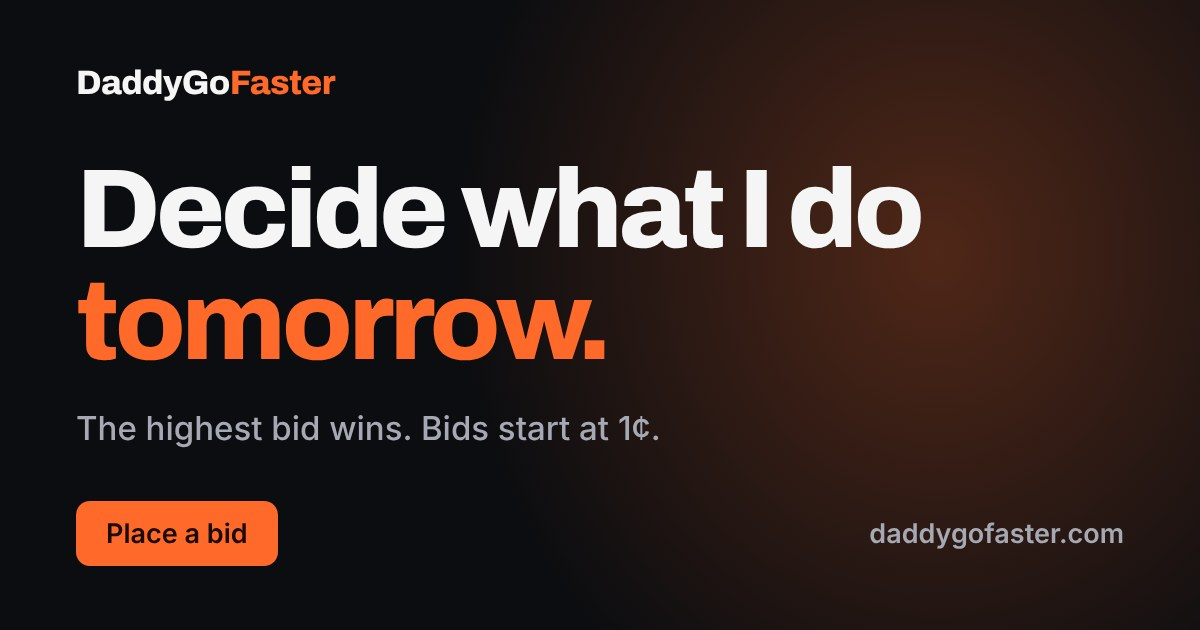
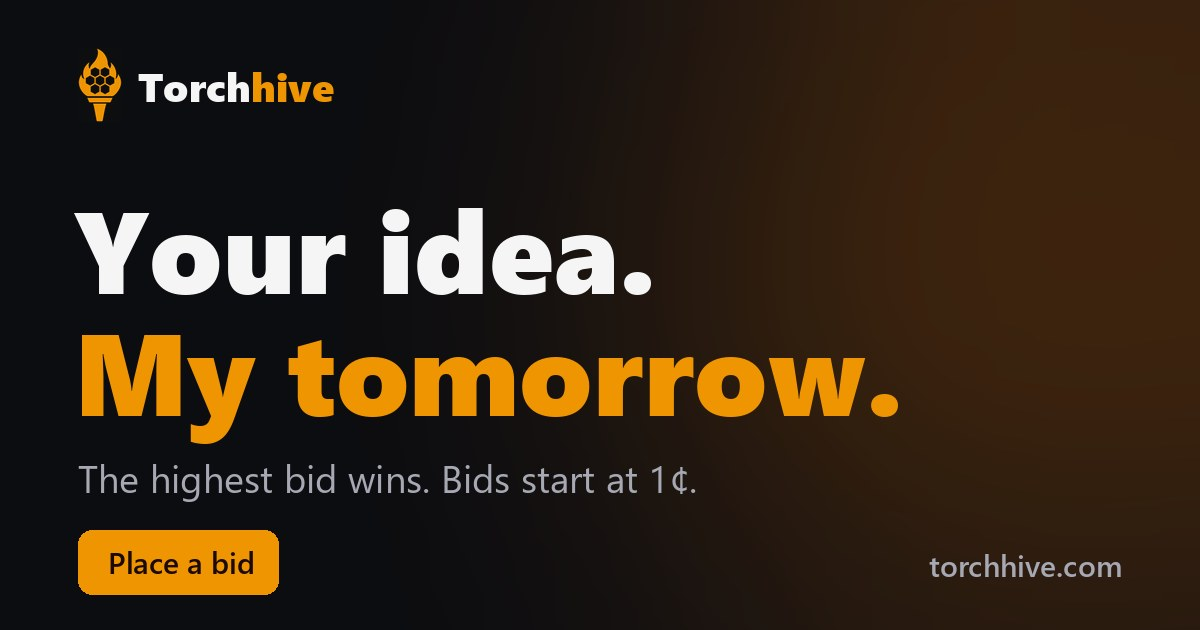
DaddyGoFaster becomes Torchhive
The site moves to torchhive.com with the new name, the torch logo in the
header, new icons and share image, and the logo's amber in place of the old
orange. The YouTube links point at @Torchhive and the contact address is
hello@torchhive.com. The service accepts the new address alongside the old
one, sends people to torchhive.com, and says Torchhive in its emails and card
descriptions. Mail still goes out from mail.daddygofaster.com until the new
mail domain is verified with Resend.

Changed region(s): [[0.0617, 0.2413, 0.7708, 0.9651], [0.7092, 0.8143, 0.9558, 0.9349], [0.0617, 0.0905, 0.2775, 0.181]]

diff --git a/index.html b/index.html
@@ -3,22 +3,23 @@
 <head>
 <meta charset="utf-8">
 <meta name="viewport" content="width=device-width,initial-scale=1">
-<title>DaddyGoFaster — Bid on what I do tomorrow</title>
+<title>Torchhive — Bid on what I do tomorrow</title>
 <meta name="description" content="Each day the highest bid sets a job for me to do the next day, on camera. Bidding is free, bids start at one cent, and only the winner pays.">
-<link rel="canonical" href="https://daddygofaster.com/">
+<link rel="canonical" href="https://torchhive.com/">
 <meta name="theme-color" content="#0C0D10">
 <script>document.documentElement.className="js"</script>
 
 <meta property="og:type" content="website">
-<meta property="og:url" content="https://daddygofaster.com/">
+<meta property="og:url" content="https://torchhive.com/">
 <meta property="og:title" content="Bid on what I do tomorrow">
 <meta property="og:description" content="The highest bid sets a job for me to do tomorrow, on camera. Bids start at one cent and only the winner pays.">
-<meta property="og:image" content="https://daddygofaster.com/assets/og-bid.jpg">
+<meta property="og:image" content="https://torchhive.com/assets/og-bid.jpg">
 <meta name="twitter:card" content="summary_large_image">
-<meta name="twitter:image" content="https://daddygofaster.com/assets/og-bid.jpg">
+<meta name="twitter:image" content="https://torchhive.com/assets/og-bid.jpg">
 
 <link rel="apple-touch-icon" href="/assets/apple-touch-icon.png">
-<link rel="icon" href="/assets/favicon.svg" type="image/svg+xml">
+<link rel="icon" href="/assets/favicon.png" type="image/png" sizes="64x64">
+<link rel="icon" href="/assets/favicon-32.png" type="image/png" sizes="32x32">
 <link rel="preload" as="image" href="/assets/idea-sunrise.webp">
 
 <link rel="preconnect" href="https://fonts.googleapis.com">
@@ -37,8 +38,8 @@
   --text:#F5F5F6;
   --muted:#A6A9B3;
   --faint:#8A8D98;
-  --accent:#FF6A2B;
-  --accent-hi:#FF8A55;
+  --accent:#EF9502;
+  --accent-hi:#FFB23E;
   --accent-ink:#1B0A02;
   --good:#3DD68C;
   --bad:#F26D72;
@@ -94,8 +95,7 @@ p{margin:0}
 .top__in{display:flex;align-items:center;gap:clamp(14px,3vw,28px);height:78px}
 .logo{display:inline-flex;align-items:center;font-family:var(--display);font-weight:800;font-size:1.12rem;letter-spacing:-.04em;text-decoration:none;white-space:nowrap}
 .logo b{color:var(--accent);font-weight:800}
-.logo__mark{display:flex;align-items:center;margin-right:12px;gap:3px;width:28px;height:30px}
-.logo__mark::before,.logo__mark::after{content:"";width:10px;height:23px;background:var(--accent);transform:skew(-18deg);border-radius:2px}
+.logo__mark{display:block;margin-right:10px;height:34px;width:auto}
 .logo__mark::after{height:16px;opacity:.55}
 .nav{display:flex;gap:26px;margin-left:auto}
 .nav a{color:var(--muted);text-decoration:none;font-size:.82rem;font-weight:500;transition:color .15s}
@@ -119,7 +119,7 @@ p{margin:0}
 /* ---- hero -------------------------------------------------- */
 .hero{position:relative;overflow:hidden;border-bottom:1px solid var(--line)}
 .hero::before{content:"";position:absolute;inset:0;pointer-events:none;
-  background:radial-gradient(ellipse at 78% 35%,rgba(255,106,43,.11),transparent 55%)}
+  background:radial-gradient(ellipse at 78% 35%,rgba(239,149,2,.11),transparent 55%)}
 .hero::after{content:"";position:absolute;inset:0;pointer-events:none;opacity:.2;
   background-image:linear-gradient(var(--line) 1px,transparent 1px),linear-gradient(90deg,var(--line) 1px,transparent 1px);
   background-size:64px 64px;mask-image:linear-gradient(90deg,transparent 30%,#000)}
@@ -164,7 +164,7 @@ p{margin:0}
 .work__skills{display:flex;flex-wrap:wrap;gap:8px}
 .work__skill{min-height:40px;padding:8px 14px;border:1px solid var(--line-2);border-radius:999px;background:var(--card);color:var(--text);font:600 .82rem var(--body);cursor:pointer}
 .work__skill:hover{border-color:var(--accent)}
-.work__skill[aria-pressed="true"]{border-color:var(--accent);background:rgba(255,106,43,.14)}
+.work__skill[aria-pressed="true"]{border-color:var(--accent);background:rgba(239,149,2,.14)}
 .work__options{display:grid;gap:10px}
 .work__option{display:grid;grid-template-columns:1fr auto;gap:4px 14px;align-items:center;width:100%;text-align:left;padding:14px 16px;border:1px solid var(--line-2);border-radius:12px;background:var(--card);color:var(--text);font:inherit;cursor:pointer;transition:border-color .15s,transform .15s}
 .work__option:hover{border-color:var(--accent);transform:translateY(-1px)}
@@ -232,7 +232,7 @@ p{margin:0}
   background:linear-gradient(145deg,rgba(255,255,255,.025),transparent 50%),var(--card)}
 .bid::before{content:"";position:absolute;left:28px;right:28px;top:-1px;height:2px;background:linear-gradient(90deg,transparent,var(--accent),transparent)}
 .bid__heading{display:flex;align-items:center;gap:13px;padding:24px 26px 20px}
-.bid__icon{display:grid;place-items:center;width:40px;height:40px;border:1px solid rgba(255,106,43,.25);border-radius:11px;background:rgba(255,106,43,.08);color:var(--accent);flex:none}
+.bid__icon{display:grid;place-items:center;width:40px;height:40px;border:1px solid rgba(239,149,2,.25);border-radius:11px;background:rgba(239,149,2,.08);color:var(--accent);flex:none}
 .bid__icon svg{width:21px;height:21px}
 .bid__heading h2{font-size:1.15rem;letter-spacing:-.03em}
 .bid__heading p{font-size:.74rem;color:var(--muted);margin-top:4px}
@@ -250,12 +250,12 @@ p{margin:0}
   color:var(--text);font:400 1rem/1.5 var(--body);padding:12px 14px;transition:border-color .15s,box-shadow .15s}
 .field textarea{min-height:98px;resize:vertical;display:block}
 .field input::placeholder,.field textarea::placeholder{color:#6F727D}
-.field input:focus,.field textarea:focus{outline:none;border-color:var(--accent);box-shadow:0 0 0 3px rgba(255,106,43,.25)}
+.field input:focus,.field textarea:focus{outline:none;border-color:var(--accent);box-shadow:0 0 0 3px rgba(239,149,2,.25)}
 .field__hint{margin-top:7px;font-size:.84rem;color:var(--faint)}
 .field__hint--tight{margin-top:-8px}
 .field__label{display:block;margin-bottom:7px;font-size:.9rem;font-weight:600}
 .cardbox{background:var(--field);border:1px solid var(--line-2);border-radius:10px;padding:15px 14px;min-height:50px;transition:border-color .15s,box-shadow .15s}
-.cardbox.StripeElement--focus{border-color:var(--accent);box-shadow:0 0 0 3px rgba(255,106,43,.25)}
+.cardbox.StripeElement--focus{border-color:var(--accent);box-shadow:0 0 0 3px rgba(239,149,2,.25)}
 .cardbox.StripeElement--invalid{border-color:#F26D72}
 .money{position:relative}
 .money span{position:absolute;left:14px;top:50%;transform:translateY(-50%);color:var(--muted);font-weight:600;pointer-events:none}
@@ -319,7 +319,7 @@ p{margin:0}
 .chat__label{font-size:.8rem;font-weight:600;color:var(--faint)}
 .chat__you,.chat__reply{padding:13px 16px;border-radius:14px;font-size:.96rem}
 .chat__you{justify-self:end;max-width:92%;background:var(--line);border-bottom-right-radius:4px}
-.chat__reply{justify-self:start;max-width:96%;background:rgba(255,106,43,.1);border:1px solid rgba(255,106,43,.3);border-bottom-left-radius:4px}
+.chat__reply{justify-self:start;max-width:96%;background:rgba(239,149,2,.1);border:1px solid rgba(239,149,2,.3);border-bottom-left-radius:4px}
 .chat__reply b{color:var(--gold);font-weight:600}
 @media(max-width:820px){.answer{grid-template-columns:1fr}}
 
@@ -367,7 +367,7 @@ p{margin:0}
 .vis{border:0;padding:0;margin:0;display:grid;gap:8px}
 .vis legend{padding:0;margin-bottom:7px;font-size:.9rem;font-weight:600}
 .vis__opt{display:flex;gap:11px;align-items:flex-start;padding:11px 13px;border:1px solid var(--line-2);border-radius:10px;background:var(--field);cursor:pointer}
-.vis__opt:has(input:checked){border-color:var(--accent);background:rgba(255,106,43,.08)}
+.vis__opt:has(input:checked){border-color:var(--accent);background:rgba(239,149,2,.08)}
 .vis__opt input{width:18px;height:18px;margin:2px 0 0;accent-color:var(--accent);flex:0 0 auto}
 .vis__opt b{display:block;font-size:.92rem;font-weight:600}
 .vis__opt span span{display:block;font-size:.82rem;color:var(--muted)}
@@ -379,7 +379,7 @@ p{margin:0}
 @media(max-width:640px){.board .c-job,.board .c-when{display:none}}
 @media(max-width:480px){.board th,.board td{padding:14px 10px}.board .c-rank{width:2.5em}.badge{margin-left:6px;font-size:.68rem}}
 .board__empty{padding:clamp(36px,5vw,60px);text-align:center;color:var(--muted);font-size:.9rem;
-  background:radial-gradient(ellipse at 50% 0,rgba(255,106,43,.04),transparent 70%)}
+  background:radial-gradient(ellipse at 50% 0,rgba(239,149,2,.04),transparent 70%)}
 .board__symbol{display:grid;place-items:center;margin:0 auto 22px;width:58px;height:64px;border:1px solid var(--line-2);border-radius:12px;background:var(--bg-2);transform:rotate(-7deg);box-shadow:6px 5px 0 var(--card),7px 6px 0 var(--line)}
 .board__symbol svg{width:25px;height:25px;color:var(--accent);transform:rotate(7deg)}
 .board__empty b{display:block;color:var(--text);font-family:var(--display);font-size:1.2rem;margin-bottom:6px}
@@ -390,7 +390,7 @@ p{margin:0}
 /* ---- what a bid covers ------------------------------------- */
 .tiles{list-style:none;margin:0;padding:0;display:grid;grid-template-columns:repeat(5,minmax(0,1fr));gap:clamp(10px,1.4vw,16px)}
 .tile{padding:24px 18px;text-align:left;background:var(--bg-2);border-radius:10px}
-.tile:first-child{border-color:rgba(255,106,43,.5);background:rgba(255,106,43,.06)}
+.tile:first-child{border-color:rgba(239,149,2,.5);background:rgba(239,149,2,.06)}
 .tile::after{content:"";display:block;height:3px;width:30px;margin-top:20px;background:var(--accent);border-radius:2px;opacity:.5}
 .tile b{display:block;font-family:var(--display);font-weight:800;font-size:clamp(1.05rem,1.35vw,1.2rem);color:var(--accent);white-space:nowrap}
 .tile span{display:block;margin-top:4px;color:var(--muted);font-size:.95rem}
@@ -437,7 +437,7 @@ a.spot:hover{border-color:var(--accent);transform:translateY(-3px)}
 /* ---- closing call ------------------------------------------ */
 .close{position:relative;overflow:hidden;text-align:center;padding:clamp(64px,9vw,120px) 0}
 .close::before{content:"";position:absolute;left:50%;top:50%;width:min(900px,120%);height:140%;transform:translate(-50%,-50%);
-  background:radial-gradient(closest-side,rgba(255,106,43,.16),transparent);pointer-events:none}
+  background:radial-gradient(closest-side,rgba(239,149,2,.16),transparent);pointer-events:none}
 .close .wrap{position:relative}
 .close h2{font-size:clamp(2.6rem,5.5vw,4.5rem);font-weight:900;letter-spacing:-.055em;max-width:15ch;margin:0 auto;line-height:1.04}
 .close h2 em{font-style:normal;color:var(--accent)}
@@ -480,12 +480,12 @@ a.spot:hover{border-color:var(--accent);transform:translateY(-3px)}
 
 <header class="top">
   <div class="wrap top__in">
-    <a class="logo" href="#top" aria-label="DaddyGoFaster home"><span class="logo__mark" aria-hidden="true"></span>DaddyGo<b>Faster</b></a>
+    <a class="logo" href="#top" aria-label="Torchhive home"><img class="logo__mark" src="/assets/torchhive-mark.png" width="114" height="192" alt="">Torch<b>hive</b></a>
     <nav class="nav" aria-label="Sections">
       <a href="#how">How it works</a>
       <a href="#board">Today's bids</a>
       <a href="#rules">Rules</a>
-      <a href="https://www.youtube.com/@DaddyGoFaster" target="_blank" rel="noopener">YouTube</a>
+      <a href="https://www.youtube.com/@Torchhive" target="_blank" rel="noopener">YouTube</a>
     </nav>
     <a class="btn btn--primary btn--sm" href="#bid">Place a bid <span aria-hidden="true">↗</span></a>
     <details class="mobile-nav" id="mobileNav">
@@ -496,7 +496,7 @@ a.spot:hover{border-color:var(--accent);transform:translateY(-3px)}
         <a href="#board">Today's bids</a>
         <a href="#rules">Rules</a>
         <a href="#sponsors">Sponsors</a>
-        <a href="https://www.youtube.com/@DaddyGoFaster" target="_blank" rel="noopener">YouTube ↗</a>
+        <a href="https://www.youtube.com/@Torchhive" target="_blank" rel="noopener">YouTube ↗</a>
       </nav>
     </details>
   </div>
@@ -565,7 +565,7 @@ a.spot:hover{border-color:var(--accent);transform:translateY(-3px)}
         </ul>
         <div class="hero__links">
           <a class="btn btn--ghost" href="#how">How it works <span aria-hidden="true">↓</span></a>
-          <a class="watch" href="https://www.youtube.com/@DaddyGoFaster" target="_blank" rel="noopener"><svg viewBox="0 0 24 24" fill="none" aria-hidden="true"><rect x="2" y="5" width="20" height="14" rx="5" stroke="currentColor" stroke-width="1.5"/><path d="m10 9 6 3-6 3Z" fill="currentColor"/></svg>Watch on YouTube</a>
+          <a class="watch" href="https://www.youtube.com/@Torchhive" target="_blank" rel="noopener"><svg viewBox="0 0 24 24" fill="none" aria-hidden="true"><rect x="2" y="5" width="20" height="14" rx="5" stroke="currentColor" stroke-width="1.5"/><path d="m10 9 6 3-6 3Z" fill="currentColor"/></svg>Watch on YouTube</a>
         </div>
       </div>
 
@@ -633,7 +633,7 @@ a.spot:hover{border-color:var(--accent);transform:translateY(-3px)}
           </div>
           <p class="msg" id="bidMsg" role="status" hidden></p>
           <button class="btn btn--primary btn--block" id="bidBtn" type="submit" hidden>Continue</button>
-          <a class="btn btn--primary btn--block" id="notifyBtn" href="mailto:hello@daddygofaster.com?subject=Tell%20me%20when%20bidding%20opens">Tell me when bidding opens</a>
+          <a class="btn btn--primary btn--block" id="notifyBtn" href="mailto:hello@torchhive.com?subject=Tell%20me%20when%20bidding%20opens">Tell me when bidding opens</a>
           <p class="fine" id="bidFine">Bidding is not open yet. This opens an email asking to be told when it is.</p>
         </div>
       </form>
@@ -814,12 +814,12 @@ a.spot:hover{border-color:var(--accent);transform:translateY(-3px)}
           <p class="spot__own">Protect &amp; Assist is my company.</p>
           <span class="spot__go">Visit protectandassist.com</span>
         </a>
-        <a class="card spot spot--open" href="mailto:hello@daddygofaster.com?subject=Sponsoring%20a%20day">
+        <a class="card spot spot--open" href="mailto:hello@torchhive.com?subject=Sponsoring%20a%20day">
           <svg class="spot__icon" viewBox="0 0 24 24" fill="none" stroke="currentColor" stroke-width="1.5" stroke-linecap="round" aria-hidden="true"><path d="M12 4v16M4 12h16"/></svg>
           <span class="spot__k">Open spot</span>
           <h3>Sponsor a day</h3>
           <p>Open to family-friendly businesses.</p>
-          <span class="spot__go">Email hello@daddygofaster.com</span>
+          <span class="spot__go">Email hello@torchhive.com</span>
         </a>
       </div>
     </div>
@@ -833,7 +833,7 @@ a.spot:hover{border-color:var(--accent);transform:translateY(-3px)}
       <p>The highest bid decides. Bids start at one cent.</p>
       <div class="close__go">
         <a class="btn btn--primary" href="#bid">Place a bid</a>
-        <a class="btn btn--ghost" href="https://www.youtube.com/@DaddyGoFaster" target="_blank" rel="noopener">Watch on YouTube</a>
+        <a class="btn btn--ghost" href="https://www.youtube.com/@Torchhive" target="_blank" rel="noopener">Watch on YouTube</a>
       </div>
     </div>
   </section>
@@ -841,13 +841,13 @@ a.spot:hover{border-color:var(--accent);transform:translateY(-3px)}
 
 <footer class="foot">
   <div class="wrap foot__in">
-    <span class="logo"><span class="logo__mark" aria-hidden="true"></span>DaddyGo<b>Faster</b></span>
-    <span class="foot__meta">&copy; 2026 DaddyGoFaster</span>
+    <span class="logo"><img class="logo__mark" src="/assets/torchhive-mark.png" width="114" height="192" alt="" loading="lazy">Torch<b>hive</b></span>
+    <span class="foot__meta">&copy; 2026 Torchhive</span>
     <nav class="foot__links" aria-label="Footer">
       <a href="#rules">Rules</a>
       <a href="#sponsors">Sponsors</a>
-      <a href="https://www.youtube.com/@DaddyGoFaster" target="_blank" rel="noopener">YouTube</a>
-      <a href="mailto:hello@daddygofaster.com">Contact</a>
+      <a href="https://www.youtube.com/@Torchhive" target="_blank" rel="noopener">YouTube</a>
+      <a href="mailto:hello@torchhive.com">Contact</a>
     </nav>
   </div>
 </footer>
@@ -1740,7 +1740,7 @@ a.spot:hover{border-color:var(--accent);transform:translateY(-3px)}
     var lines = ['Please tell me when bidding opens.'];
     if(task) lines.push('', 'My idea: ' + task);
     if(cents) lines.push('My bid: ' + money(cents));
-    this.href = 'mailto:hello@daddygofaster.com?subject=' + encodeURIComponent('Tell me when bidding opens') +
+    this.href = 'mailto:hello@torchhive.com?subject=' + encodeURIComponent('Tell me when bidding opens') +
       '&body=' + encodeURIComponent(lines.join('\n'));
   });
 

diff --git a/service/src/index.js b/service/src/index.js
@@ -1,4 +1,4 @@
-// dgf-bids: the bid service behind daddygofaster.com.
+// dgf-bids: the bid service behind torchhive.com (it began as daddygofaster.com).
 //
 // Public:  GET  /board           this round's qualified bids (name, amount, time only)
 //          POST /bids            place a bid or raise one, get a verdict back
@@ -65,7 +65,7 @@ function settings(env) {
     maxPerDay: int(env.MAX_BIDS_PER_DAY, 5),
     origins: (env.ALLOWED_ORIGINS || '').split(',').map((s) => s.trim()).filter(Boolean),
     model: env.SCREEN_MODEL || 'claude-opus-5-5',
-    siteUrl: (env.SITE_URL || 'https://daddygofaster.com').replace(/\/+$/, ''),
+    siteUrl: (env.SITE_URL || 'https://torchhive.com').replace(/\/+$/, ''),
     mailFrom: env.MAIL_FROM || '',
   };
 }
@@ -614,7 +614,7 @@ async function stopEmails(env, token) {
   if (ok) await env.DB.prepare('UPDATE bids SET notify = 0 WHERE token = ?').bind(token).run();
   const line = ok ? 'You will not get any more emails about this bid.' : 'That link is not valid.';
   return new Response(
-    `<!doctype html><meta charset="utf-8"><meta name="viewport" content="width=device-width,initial-scale=1"><meta name="robots" content="noindex"><title>DaddyGoFaster</title><body style="margin:0;min-height:100vh;display:grid;place-items:center;background:#0C0D10;color:#F5F5F6;font:18px/1.5 system-ui,sans-serif;text-align:center;padding:24px"><p>${line}</p>`,
+    `<!doctype html><meta charset="utf-8"><meta name="viewport" content="width=device-width,initial-scale=1"><meta name="robots" content="noindex"><title>Torchhive</title><body style="margin:0;min-height:100vh;display:grid;place-items:center;background:#0C0D10;color:#F5F5F6;font:18px/1.5 system-ui,sans-serif;text-align:center;padding:24px"><p>${line}</p>`,
     { headers: { 'content-type': 'text/html; charset=utf-8', 'cache-control': 'no-store' } },
   );
 }

diff --git a/service/src/cards.js b/service/src/cards.js
@@ -66,7 +66,7 @@ export async function createHold(env, key, { customerId, email, cardId, cents, d
     capture_method: 'manual', // a hold: nothing is charged until it is captured
     confirm: 'true',
     setup_future_usage: 'off_session', // so a raise can hold more on the same card
-    description: `DaddyGoFaster bid for ${day}`,
+    description: `Torchhive bid for ${day}`,
     receipt_email: email,
     'metadata[bid_id]': String(bidId),
     'metadata[day]': day,
@@ -100,7 +100,7 @@ export async function chargeSaved(env, key, { customerId, cardId, email, cents, 
     'payment_method_types[]': 'card',
     confirm: 'true',
     off_session: 'true',
-    description: `DaddyGoFaster winning bid for ${day}`,
+    description: `Torchhive winning bid for ${day}`,
     receipt_email: email,
     'metadata[bid_id]': String(bidId),
     'metadata[day]': day,

diff --git a/404.html b/404.html
@@ -3,7 +3,7 @@
 <head>
 <meta charset="utf-8">
 <meta name="viewport" content="width=device-width,initial-scale=1">
-<title>Page not found — DaddyGoFaster</title>
+<title>Page not found — Torchhive</title>
 <meta name="robots" content="noindex">
 <link rel="icon" href="/assets/favicon.svg" type="image/svg+xml">
 <link rel="preconnect" href="https://fonts.googleapis.com">

diff --git a/service/src/mail.js b/service/src/mail.js
@@ -12,7 +12,7 @@ export function outbidEmail({ amountCents, highCents, siteUrl, stopUrl }) {
   return {
     subject: 'You have been outbid',
     text: [
-      'Someone has outbid you on DaddyGoFaster.',
+      'Someone has outbid you on Torchhive.',
       '',
       `Your bid: ${money(amountCents)}`,
       `High bid now: ${money(highCents)}`,

diff --git a/service/src/social.js b/service/src/social.js
@@ -61,7 +61,7 @@ export async function authStart(request, env, s, now) {
     key: mail, from: s.mailFrom, to: email,
     subject: 'Your sign-in link',
     text: [
-      'Use this link to sign in to DaddyGoFaster:',
+      'Use this link to sign in to Torchhive:',
       '',
       `${s.siteUrl}/#signin=${code}`,
       '',
